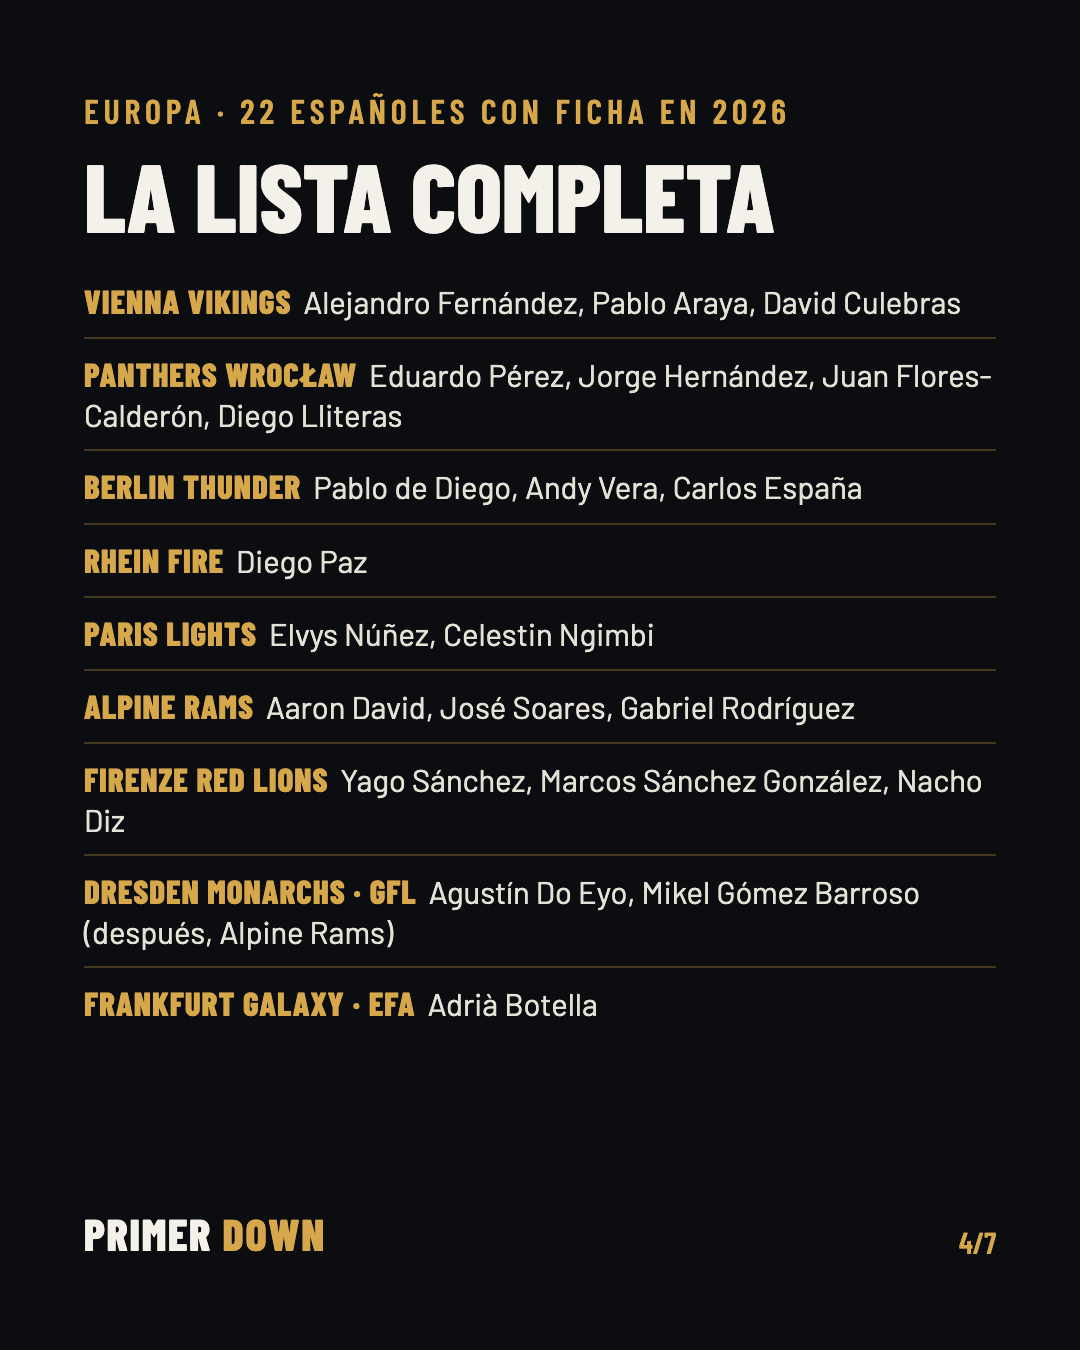
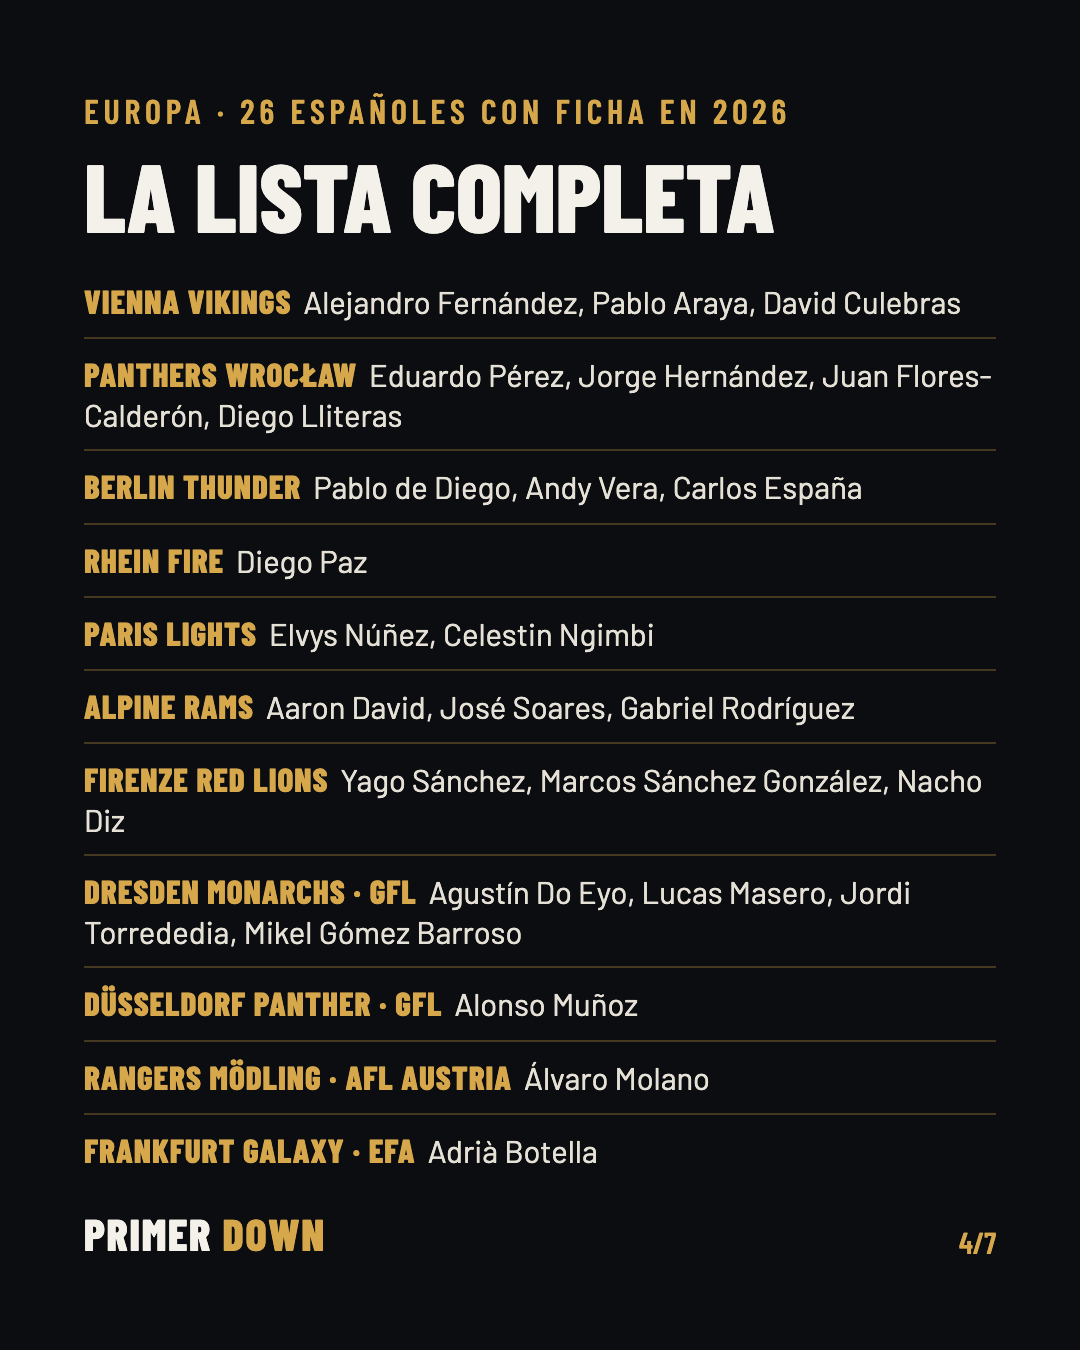
contenido(social): carrusel y briefing del censo con las cifras nuevas (32)

diff --git a/content/social/censo-2026-carrusel/slide-4.html b/content/social/censo-2026-carrusel/slide-4.html
@@ -27,7 +27,7 @@ p{font-size:38px;line-height:1.3;margin-top:26px;color:#e6e1d6}
 .stats{display:flex;gap:44px;margin-top:70px}
 .stats div{font-size:30px;color:#b9b3a6;line-height:1.2}
 .stats div b{display:block;font-family:'Barlow Condensed';font-weight:800;font-size:120px;color:#d6a84b;line-height:.9}
-</style></head><body><div class="wrap"><div class="kicker">Europa · 22 españoles con ficha en 2026</div><h2>La lista completa</h2>
+</style></head><body><div class="wrap"><div class="kicker">Europa · 26 españoles con ficha en 2026</div><h2>La lista completa</h2>
 <div style="margin-top:26px">
 <div class="team"><b>Vienna Vikings</b>Alejandro Fernández, Pablo Araya, David Culebras</div>
 <div class="team"><b>Panthers Wrocław</b>Eduardo Pérez, Jorge Hernández, Juan Flores-Calderón, Diego Lliteras</div>
@@ -36,6 +36,8 @@ p{font-size:38px;line-height:1.3;margin-top:26px;color:#e6e1d6}
 <div class="team"><b>Paris Lights</b>Elvys Núñez, Celestin Ngimbi</div>
 <div class="team"><b>Alpine Rams</b>Aaron David, José Soares, Gabriel Rodríguez</div>
 <div class="team"><b>Firenze Red Lions</b>Yago Sánchez, Marcos Sánchez González, Nacho Diz</div>
-<div class="team"><b>Dresden Monarchs · GFL</b>Agustín Do Eyo, Mikel Gómez Barroso (después, Alpine Rams)</div>
+<div class="team"><b>Dresden Monarchs · GFL</b>Agustín Do Eyo, Lucas Masero, Jordi Torrededia, Mikel Gómez Barroso</div>
+<div class="team"><b>Düsseldorf Panther · GFL</b>Alonso Muñoz</div>
+<div class="team"><b>Rangers Mödling · AFL Austria</b>Álvaro Molano</div>
 <div class="team last"><b>Frankfurt Galaxy · EFA</b>Adrià Botella</div>
 </div><div class="foot"><div><div class="brand">Primer <span>Down</span></div></div><div class="pg">4/7</div></div></div></body></html>

diff --git a/content/social/censo-2026-carrusel/slide-7.html b/content/social/censo-2026-carrusel/slide-7.html
@@ -30,4 +30,4 @@ p{font-size:38px;line-height:1.3;margin-top:26px;color:#e6e1d6}
 </style></head><body><div class="wrap"><div class="kicker">El censo completo</div><h2>¿Falta alguien?</h2>
 <p>Si juegas fuera de España o conoces a alguien que lo haga, escríbenos con un enlace a la plantilla o al anuncio del fichaje y lo añadimos.</p>
 <p style="margin-top:60px;font-family:'Barlow Condensed';font-weight:800;font-size:60px;color:#d6a84b;text-transform:uppercase;line-height:1">Enlace en la bio</p>
-<p style="font-size:30px;color:#b9b3a6">primerdown.jordisanchezweb.es</p><div class="stats"><div><b>27</b>españoles fuera<br>en 2026</div><div><b>22</b>en ligas<br>europeas</div><div><b>4</b>en la NCAA</div><div><b>1</b>en la NFL<br>Academy</div></div><div class="foot"><div><div class="brand">Primer <span>Down</span></div></div><div class="pg">7/7</div></div></div></body></html>
+<p style="font-size:30px;color:#b9b3a6">primerdown.jordisanchezweb.es</p><div class="stats"><div><b>32</b>españoles fuera<br>en 2026</div><div><b>26</b>en ligas<br>europeas</div><div><b>4</b>en la NCAA</div><div><b>2</b>NFL Academy<br>e instituto</div></div><div class="foot"><div><div class="brand">Primer <span>Down</span></div></div><div class="pg">7/7</div></div></div></body></html>

diff --git a/content/social/censo-2026-carrusel/slide-1.html b/content/social/censo-2026-carrusel/slide-1.html
@@ -23,6 +23,6 @@ p{font-size:38px;line-height:1.3;margin-top:26px;color:#e6e1d6}
 .pg{font-family:'Barlow Condensed';font-weight:600;font-size:30px;color:#d6a84b}
 </style></head><body><div class="bg" style="background-image:url(vikings-panthers-wroclaw-2026-commons.jpg)"></div><div class="shade"></div>
 <div class="wrap"><div style="margin-top:auto"></div><div class="kicker">Censo 2026</div>
-<h1>Al menos <span class="big">27</span> españoles juegan fuera de España</h1>
+<h1>Al menos <span class="big">32</span> españoles juegan fuera de España</h1>
 <p>De la NCAA a la Gold Bowl. Jugador a jugador y con fuente.</p>
 <div style="height:60px"></div><div class="foot"><div><div class="brand">Primer <span>Down</span></div><div class="credit">Panthers Wrocław-Vienna Vikings, 31-5-2026 · Foto: Paweł Pokrzywiński · CC BY 4.0 · Wikimedia Commons</div></div><div class="pg">1/7</div></div></div></body></html>

diff --git a/research/daily/2026-11-18.md b/research/daily/2026-11-18.md
@@ -9,7 +9,7 @@ type: daily-briefing
 ## 🔥 TOP STORIES
 
 ### 1. Al menos 27 españoles jugaron fuera de España en 2026 (CONFIRMED)
-Primer Down publica el censo de los españoles con ficha fuera de España en 2026: al menos 27, y 22 de ellos en ligas europeas. Ninguno en la NFL. En la AFLE europea, el líder de placajes y el líder de sacks fueron españoles: Pablo de Diego y Diego Paz.
+Primer Down publica el censo de los españoles con ficha fuera de España en 2026: al menos 32, y 26 de ellos en ligas europeas. Ninguno en la NFL. En la AFLE europea, el líder de placajes y el líder de sacks fueron españoles: Pablo de Diego y Diego Paz.
 - **Why it matters:** El fútbol americano español nunca había tenido tanta gente compitiendo fuera, pese a quedarse sin equipo profesional
 - **Source:** [Primer Down](https://primerdown.jordisanchezweb.es/es/articulos/jugadores-espanoles-futbol-americano-extranjero-2026)
 - **Content potential:** TikTok con las cifras del censo y los dos líderes españoles de la AFLE
